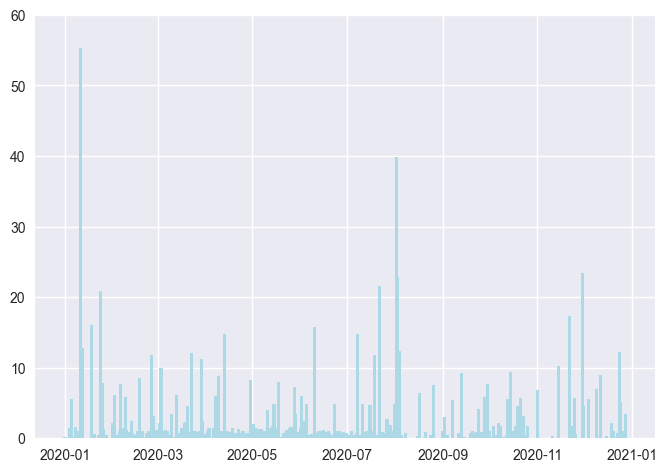
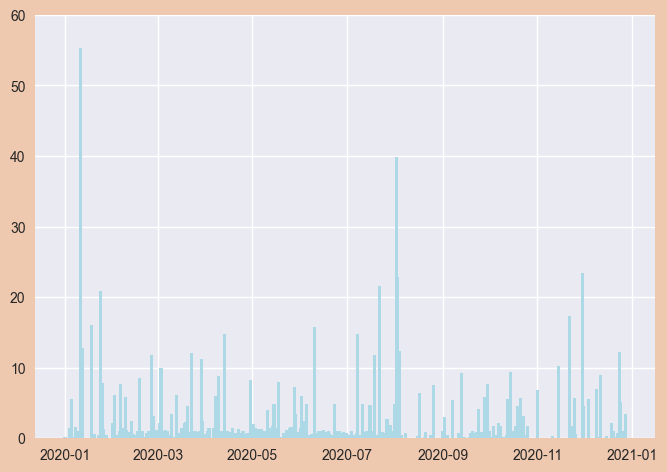
Updated background color.

Changed region(s): [[0.0, 0.0, 1.0, 1.0]]

diff --git a/temperature.py b/temperature.py
@@ -31,5 +31,6 @@ plt.fill_between(dates, highs, lows, facecolor='blue', alpha=0.1)
 
 # Format plot.
 plt.gca().set_ylim([-20, 40])
+fig.patch.set_facecolor('#efc9af')
 
 plt.savefig('images/temperature.png', bbox_inches='tight')

diff --git a/snow_depth.py b/snow_depth.py
@@ -33,5 +33,6 @@ ax.scatter(dates, snwds, c=temps, cmap='coolwarm', marker='*')
 
 # Format plot.
 plt.gca().set_ylim([0, 160])
+fig.patch.set_facecolor('#efc9af')
 
 plt.savefig('images/snow_depth.png', bbox_inches='tight')

diff --git a/precipitation.py b/precipitation.py
@@ -27,5 +27,6 @@ ax.bar(dates, prcps, width=2, color='lightblue')
 
 # Format plot.
 plt.gca().set_ylim([0, 60])
+fig.patch.set_facecolor('#efc9af')
 
 plt.savefig('images/precipitation.png', bbox_inches='tight')
